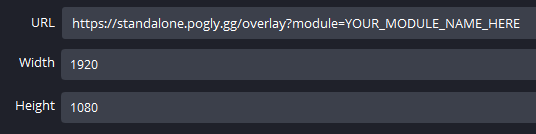
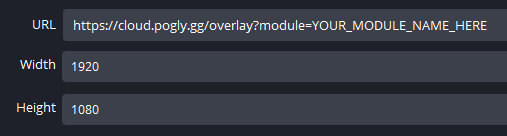
Add beginner's guide

Changed region(s): [[0.0592, 0.0299, 1.0, 0.2985], [0.0296, 0.3582, 1.0, 0.6269], [0.0296, 0.6866, 0.2071, 0.9254]]

diff --git a/use/beginnerGuide.md b/use/beginnerGuide.md
@@ -1,0 +1,107 @@
+# Pogly beginner's guide
+
+This is an in depth guide on Pogly usage and should contain everything you need to know when starting to use Pogly.
+
+Note: This guide assumes you're using modules hosted by Pogly. Some steps may vary for self-hosters.
+
+## Creating your first module
+
+At the moment, Pogly is <b>free to use</b> and you can create as many modules as you want. While in theory you could use one module for multiple streamers, it's recommended to have one module per streamer for performance reasons.
+
+To create a module, join [Pogly Discord](https://discord.gg/pogly). In any public channel, run the `/publish` <b>slash command</b>. Give your module a name. This name is used to connect to your module.
+
+![module creation](../assets/module_creation.png)
+
+## Connecting to your module
+
+Once you've successfully created your module, in your browser of choice open https://cloud.pogly.gg. You'll be prompted to authenticate using `SpacetimeAuth` which is our [OIDC provider](https://openid.net/developers/how-connect-works/). If you'd like to know more about how we utilize `SpacetimeAuth` and what information we get from you, you can read our [authentication documentation](#). Once authenticated, input the name of the module you just created into `module name` input field and press `connect`.
+
+![login screen](../assets/login_screen.png)
+
+## Module onboarding
+
+When you connect to your module for the first time, you will be prompted to do a 5 step onboarding. This is used to setup your module with various different settings. <b>These settings can be modified later in the settings menu</b>.
+
+<b>The user who finishes the onboarding will be made the owner, ownership CANNOT be transferred.</b>
+
+1. Welcome
+   - Welcome screen with basic information as mentioned here.
+2. Platform
+   - Select which streaming platform your stream is in. This is only used to show a preview stream at the center of the canvas and to fetch channel emotes from 7TV/BTTV.
+3. Channel
+   - The channel name as shown on the streaming platform.
+   - Youtube streamers need to input their Youtube <b>Channel ID!</b>
+4. Security
+   - Securing your module is <b>very important</b>. Although these options are optional, we <b>HIGHLY RECOMMEND YOU ENABLE BOTH SETTINGS!</b>
+   - Password protection
+     - Forces everyone to input a custom module password when connecting.
+   - Strict mode
+     - TL;DR Wont let normal users do specific actions, you can read more about it [here](#).
+5. Finish
+   - Explanation on what to do next.
+
+## Setting up the overlay
+
+Once you've finished the onboarding, you can setup the overlay in your streaming tool of choice.
+
+Create a new `Browser source` and fill the following settings:
+
+1. Set browser source URL as follows. <b>Change `YOUR_MODULE_NAME_HERE` with your module name.</b>
+   - https://cloud.pogly.gg/canvas?module=YOUR_MODULE_NAME_HERE
+2. Set width to `1920`.
+
+3) Set height to `1080`.
+
+**NOTE:** If you stream in higher resolution, **the browser source size still needs to be 1920x1080!** Once you've finished creating the source, **stretch the source to cover the screen!**
+
+![obs settings](../assets/obs_browser_source.png)
+
+## Making sure everything works
+
+Once you've finished module onboarding and created your browser source, you can test and make sure everything works by spawning an element from the editor left-hand side and dragging the element on top of the preview stream. <b>You do not need to be live to test it.</b>
+
+![usage test](../assets/pogly_usage_test.png)
+
+## Giving access to collaborators
+
+Now that you have everything setup and things work, you can give access to your friends, chat moderators or other collaborators. Giving access is as easy as giving them your <b>module namd</b> and <b>module password</b> (If you set one up). They connect to your module the same way as you did, in https://cloud.pogly.gg.
+
+If you enabled [strict mode](#), you can grant permissions to users by right clicking their bubble top right of the editor <b>once they've connected</b>.
+
+![grant moderator](../assets/grant_moderator.png)
+
+## Adding custom elements
+
+Pogly supports 2 different types of custom elements: [images](#) and [widgets](#). To upload a new images to your module, open the `Images` category and press `Add image`.
+
+<b>IMPORTANT!</b> Pogly currently supports uploading of images through 2 different means, by file and by URL. We <b>HIGHLY</b> recommend you upload images using URL instead of file as uploading them as files <b>will increase your module's load times SIGNIFICANTLY</b>. We also recommend deleting images you don't frequently use anymore by right clicking it in the menu and pressing delete.
+
+Your module comes with various different widgets. As the widget system can be pretty complex and hard to understand unless you're into programming, we recommend you read the [widget documentation](#). Here is a very quick rundown for basic widget usage:
+
+Most widgets are configured using widget variables. It is recommended to first spawn the widget and then editing the variables so the changes do not get saved in the base widget element. Spawn your desired widget and double click it in the canvas. A widget editor modal will appear and you can see the customizable variable the widget developer has added which allow you to do specific modifications without actually editing any of the code. 99% of the time these are the only things you need to edit to use the widget, unless you specifically want to modify the widget functionality.
+
+Using the `Youtube Player` widget as an example, the first 2 variables are `video_id` and `volume`. To play a Youtube video, copy paste a Youtube video URL into `video_id` and modify `volume` to your desired value. Once done, press `Save` to close the widget editor. If a widget needs to be activated, you can easily activate it by right clicking the element in the canvas and selecting `Toggles` then the action you want to perform. In this case it would be `play/pause`.
+
+You can find more community made widgets in [Pogly Discord](https://discord.gg/pogly) under `widget-share` channel. To import new widgets, copy the widget code from the thread, press `Add Widget` in widgets category, press `Import` and copy the code from Discord into the input field.
+
+## Layouts
+
+Layouts are a way for you to keep your module clean by splitting your content into their own "scenes". Layouts are a powerful tool and we recommend you read the in depth [layouts documentation](#) to learn how to fully utilize them.
+
+## Modifying module settings
+
+If for whatever reason you need to modify the settings you set during module onboarding, you can find them in `Settings` -> `Owner` tab. Here you can also find the moderator list in case you need to remove a moderator while they're not connected. Currently the list does not show their username but this will be updated very soon.
+
+## Keybinds
+
+Pogly has a lot of keybinds for various different actions. Unfortunately we do not currently display these hotkeys inside the app but this will change very soon.
+
+[Find all keybinds here](#)
+
+You can more easily and faster upload new images by drag and dropping it over the element selection menu. This automatically fills the upload modal fields and if your image name is proper, all you have to do is press upload!
+
+You can also copy paste images or text directly on to the canvas, without the need to upload them first.
+
+## Still need help?
+
+You can ask help with anything in our [Discord](https://discord.gg/pogly). We are more than happy to help you if you run into any issues!
